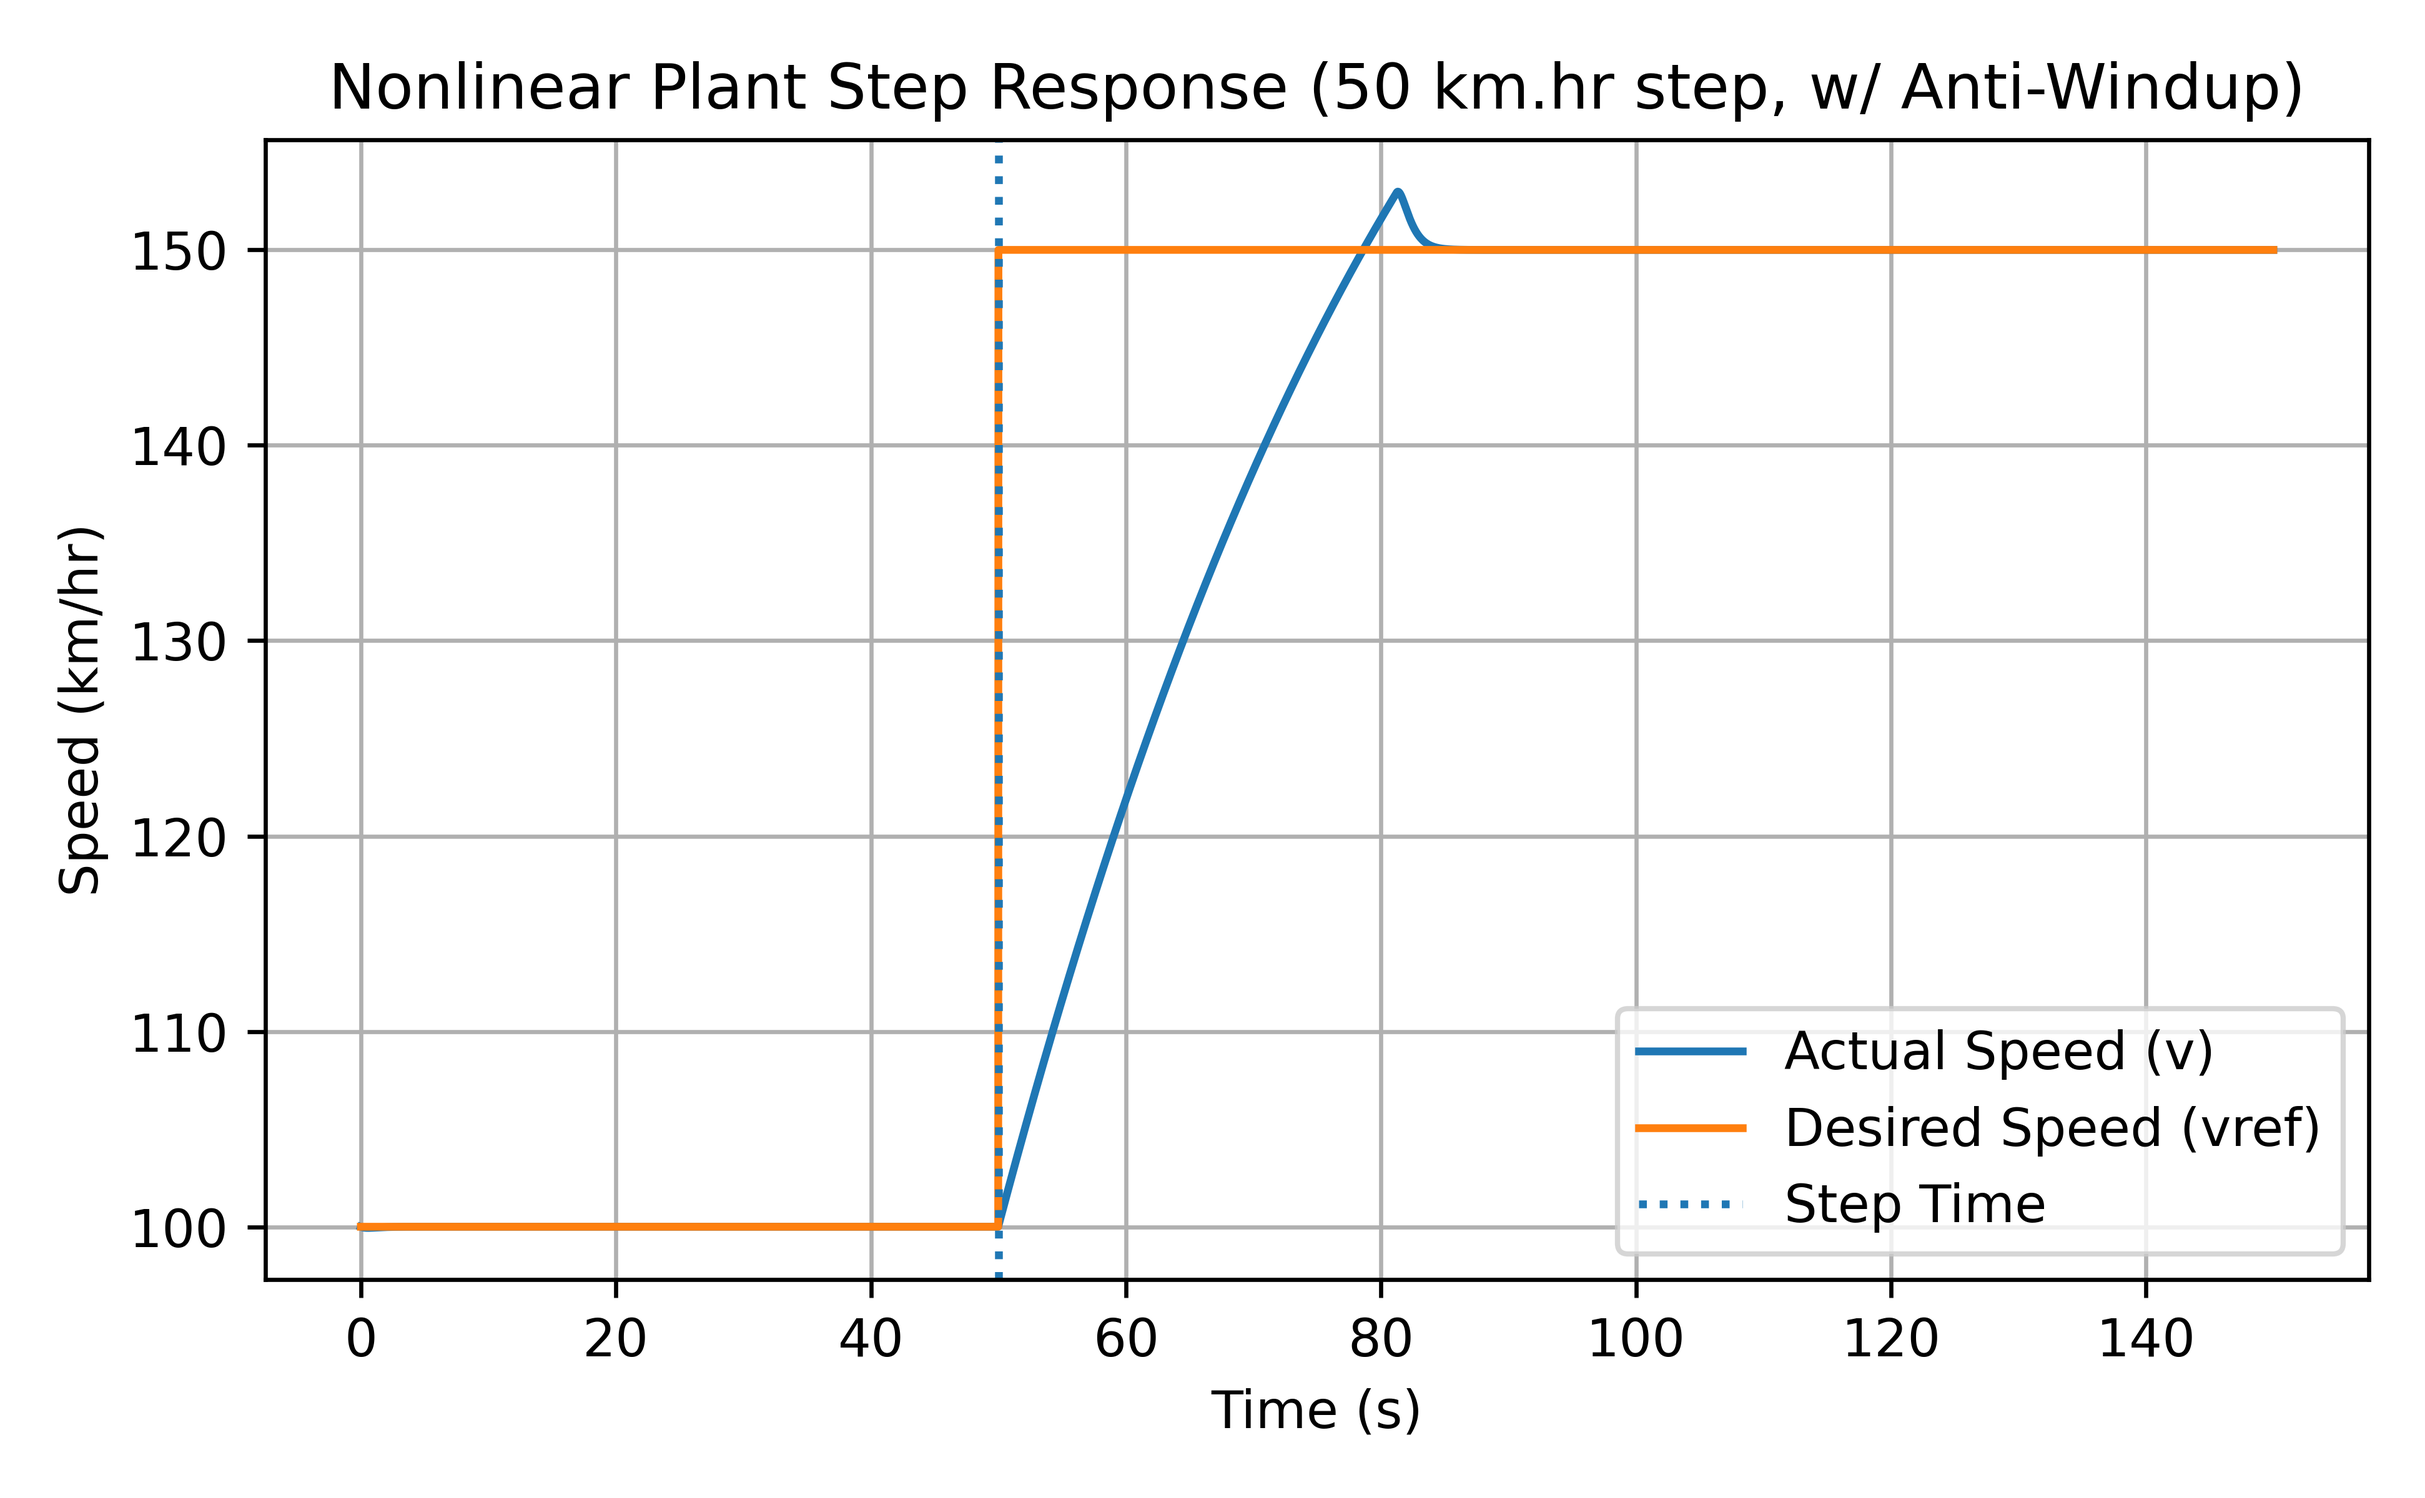
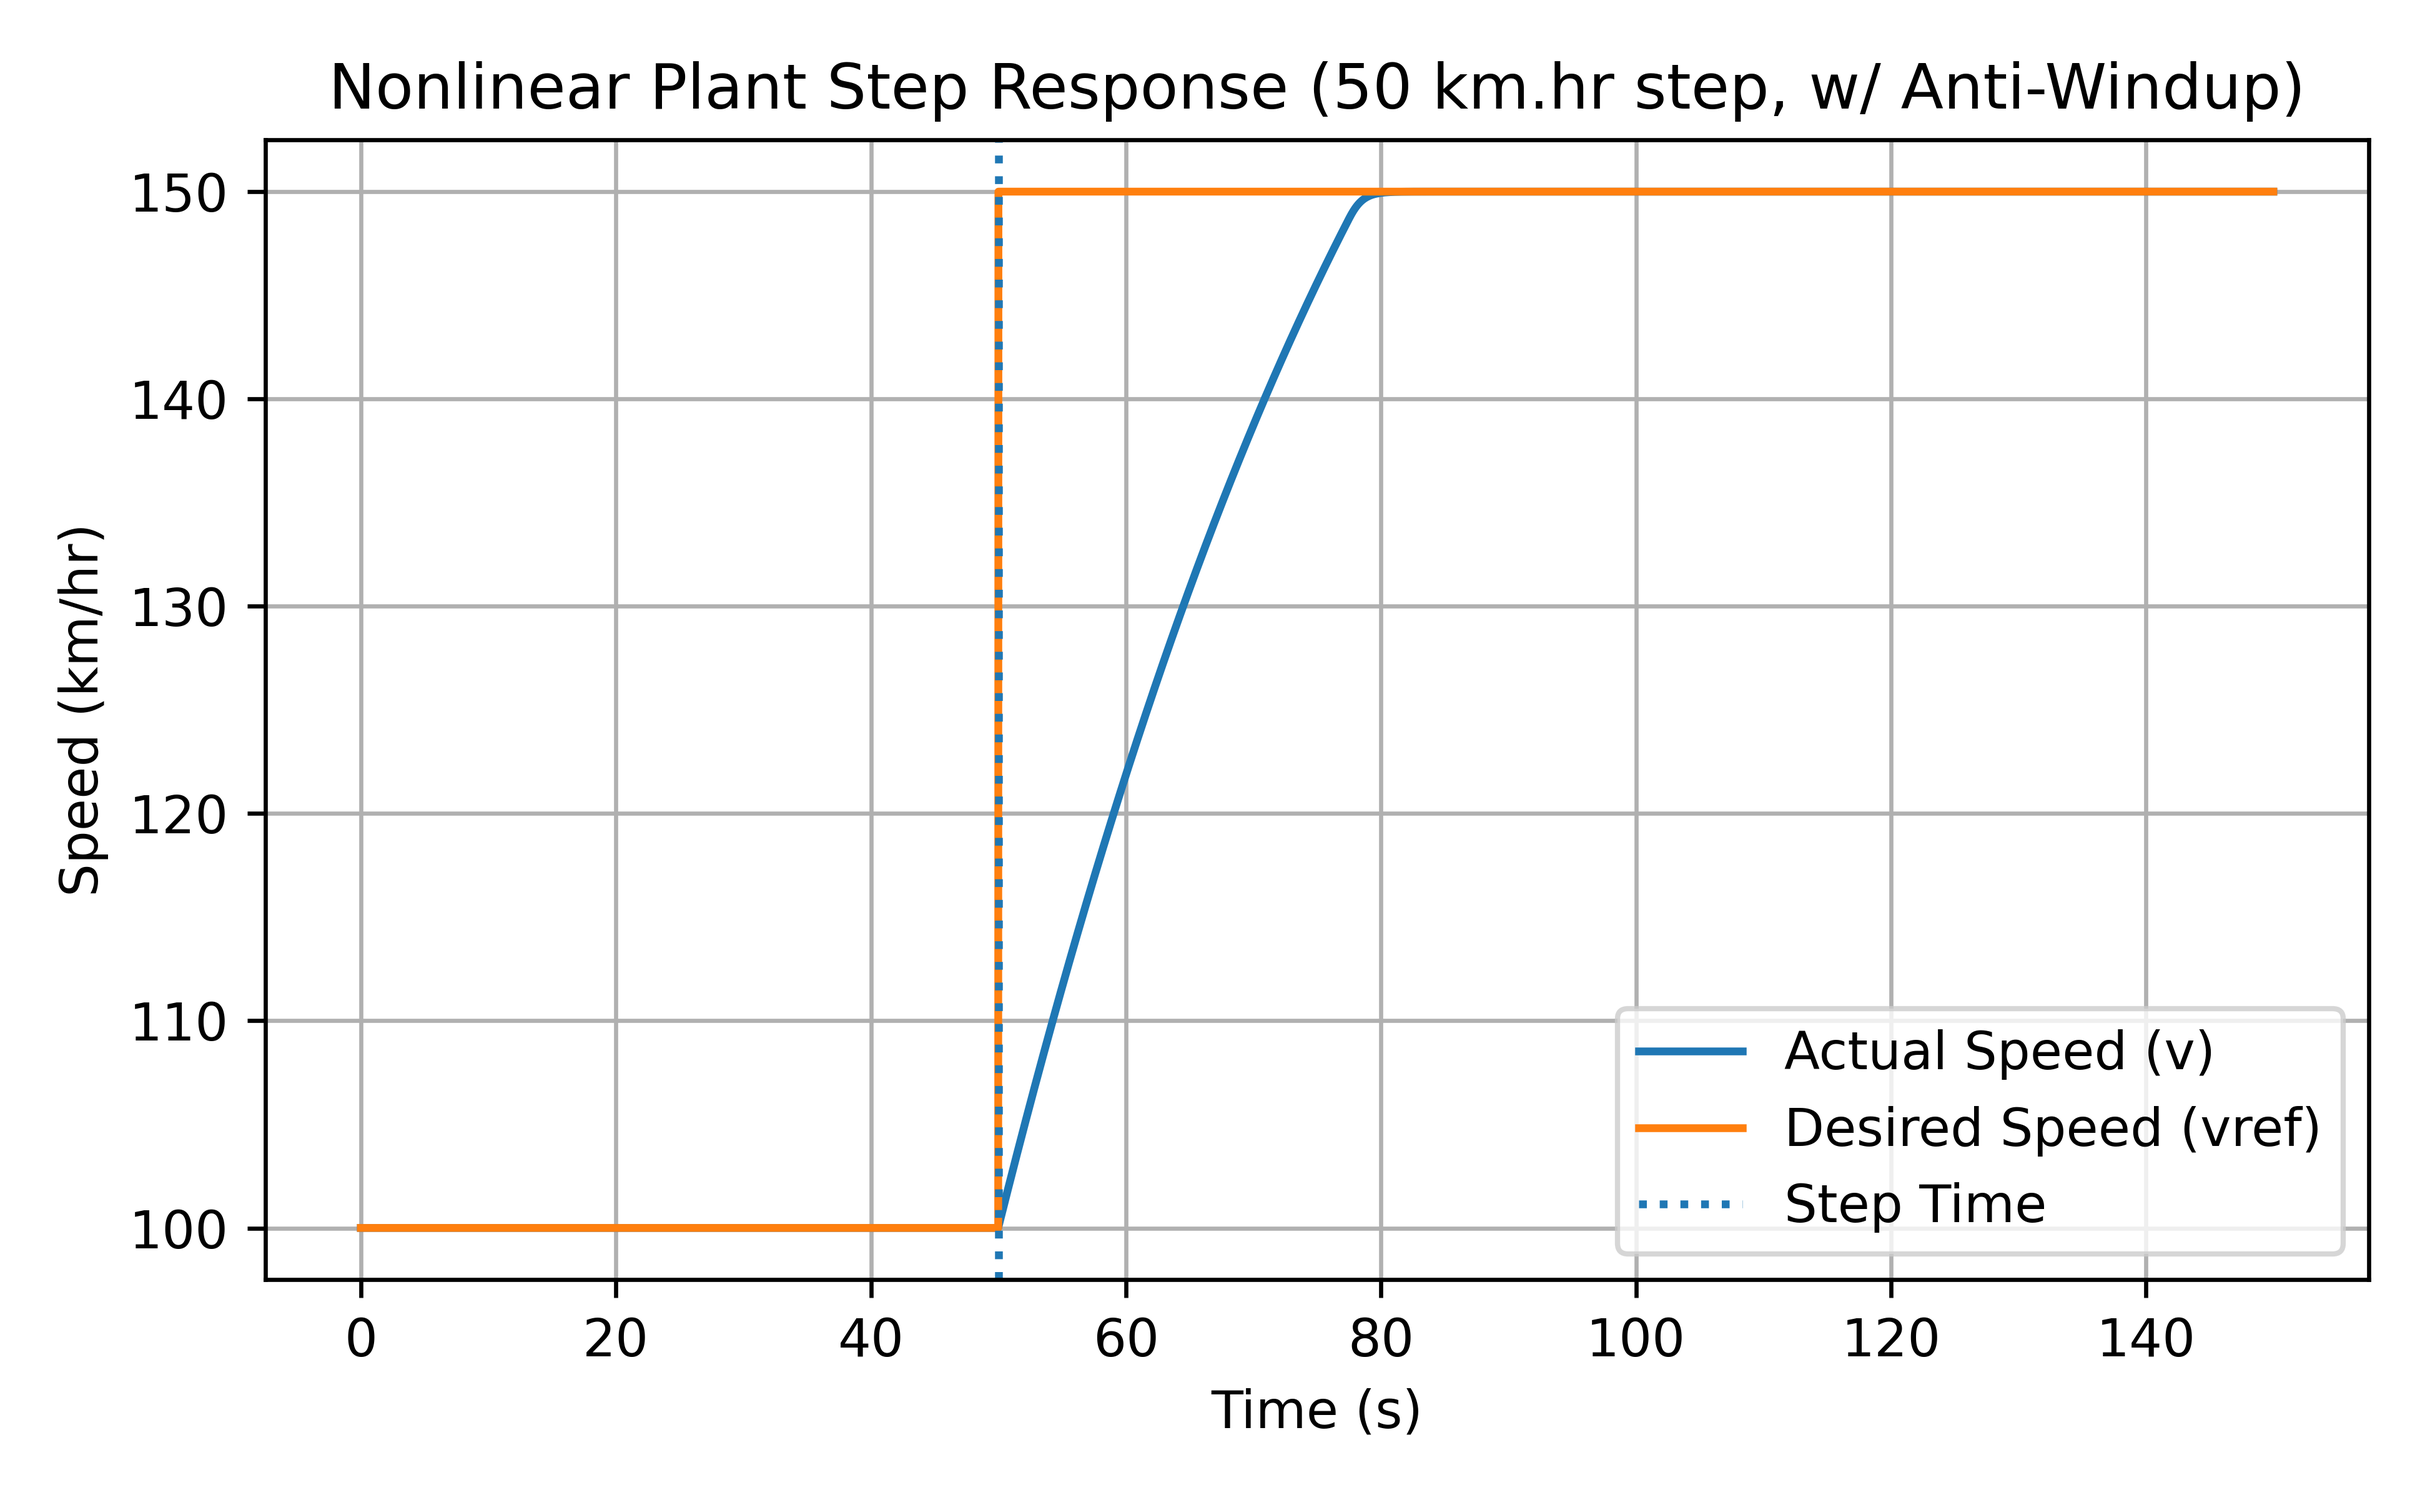
Fixed task2 simulations

diff --git a/interactiveSim/Task2.py b/interactiveSim/Task2.py
@@ -112,8 +112,6 @@ SIM_TIME = 150.0
 STEP_TIME = 50.0
 
 V_STEP = 101.0 / 3.6 #m/s
-umax = 10000
-umin = -10000
 
 def simulate_step_response(Kp, Ki, Kaw, v_start, v_target, plot_title, filename, road_amp=0.0):
     
@@ -123,7 +121,7 @@ def simulate_step_response(Kp, Ki, Kaw, v_start, v_target, plot_title, filename,
     car.road_beta = np.deg2rad(car.road_beta_deg)
 
     #defaults are set appropriately for designed controller of this specific task
-    cruise_controller = controller(Kp=Kp, Ki=Ki, Ts=Ts, umax=umax, umin=umin, Kaw=Kaw)
+    cruise_controller = controller(Kp=Kp, Ki=Ki, Ts=Ts, umax=F_max, umin=F_min, Kaw=Kaw)
     
     # Instantiate car object
     my_car = car(Ts=Ts, initial_speed=v_start)

diff --git a/interactiveSim/controller_task2.py b/interactiveSim/controller_task2.py
@@ -24,8 +24,8 @@ class controller_t2:
         v0 = 27.78
         a = 0.2
         b = 20
-
-        F_drag = a * v0**2 + b * v0
+        F_roll = 100
+        F_drag = F_roll + a * v0**2 + b * v0
         #insantiate controller
         self.PI = PID(Kp=Kp, Ki=Ki, Ts=Ts, umax=umax, umin=umin, Kaw=Kaw, initialState=F_drag)
         self.precomp = Precompensator(Kp=Kp, Ki=Ki, Ts=Ts, initial_v_ref=v0)
